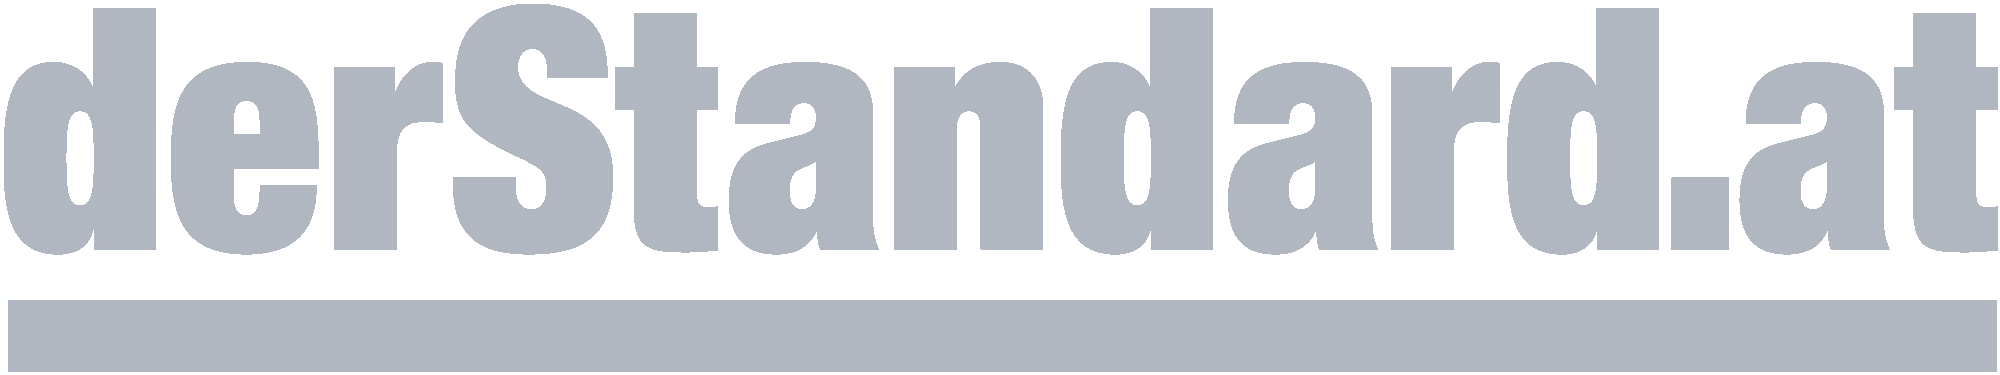
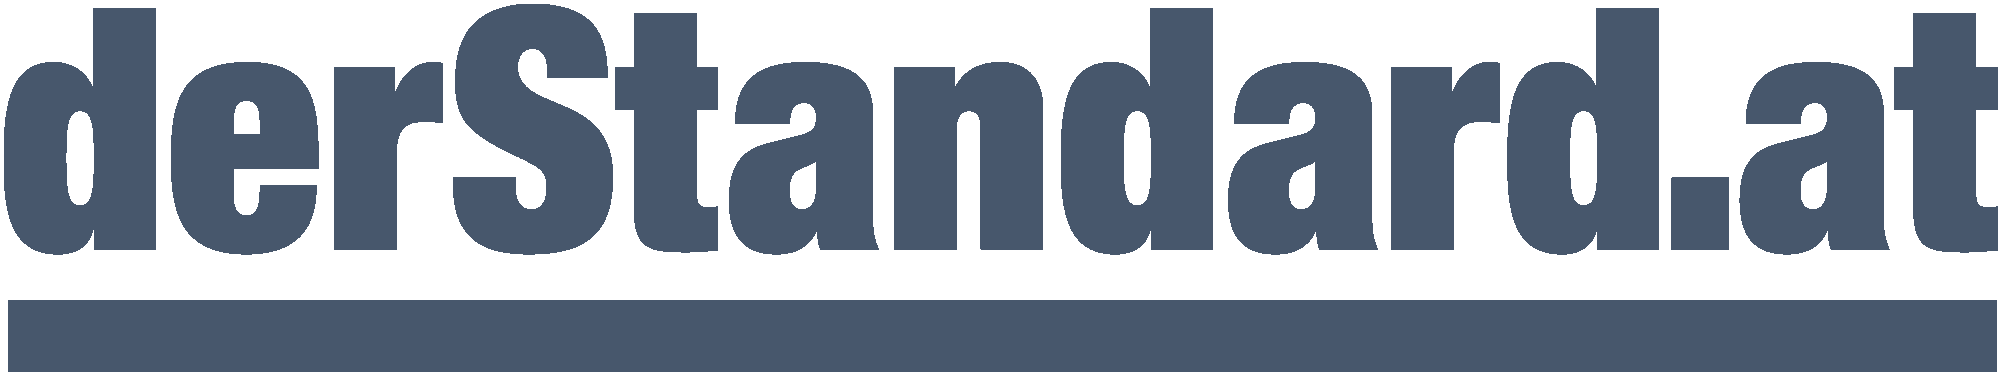
Ajusted links for telegram and medium, ajusted colors for nature.com and derStandard.at.

diff --git a/src/index.html b/src/index.html
@@ -439,23 +439,24 @@
 
   <section class="whitepaper" id="whitepaper">
     <h1 class="title press" data-animate-subscribe>Press</h1>
-    <a href="https://www.nature.com/articles/d41586-017-08589-4?utm_source=FBK_NatureNews&sf176682185=1" target="_blank"><img src="assets/images/nature.com.svg" class="space-right-50" /> </a>
-    <a href="http://mobil.derstandard.at/2000069965446/Peer-to-Peer-Wissenschaftsverlage-funktionieren-nicht-oder-doch" target="_blank"><img src="assets/images/derStandard.png" width="250" height="40" class="space-left-50" /></a>
-    <h1 class="title latest-news" data-animate-subscribe>Latest news</h1>    
-    <br />
     
-    <div class="grid">
-      <div class="grid__cell">
-        <a class="twitter-timeline" data-width="300" data-height="500" data-theme="dark" href="https://twitter.com/scienceroot?ref_src=twsrc%5Etfw">Tweets by scienceroot</a> <script async src="https://platform.twitter.com/widgets.js" charset="utf-8"></script>
+    <div class="team__members">
+      <div class="team__member" data-animate-subscribe>
+        <a href="https://www.nature.com/articles/d41586-017-08589-4?utm_source=FBK_NatureNews&sf176682185=1" class="grid__cell" target="_blank"><img src="assets/images/nature.com.svg" /> </a>
       </div>
-      <div class="grid__cell space-left-120">
-        <a href="https://t.me/scienceroot" target="_blank" class="follow-text">Join us on Telegram<br /><span class="follow-link">https://t.me/scienceroot</span></a>
-        <br /><br /><br /><br /><br /><br />
-        <a href="https://medium.com/scienceroot" target="_blank" class="follow-text">Follow us on Medium<br /><span class="follow-link">https://medium.com/scienceroot</span></a>
+      <div class="team__member" data-animate-subscribe>
+        <a href="http://mobil.derstandard.at/2000069965446/Peer-to-Peer-Wissenschaftsverlage-funktionieren-nicht-oder-doch" target="_blank" class="grid__cell"><img src="assets/images/derStandard.png" width="250" height="40" /></a>
       </div>
     </div>
-       
-
+    
+    <h1 class="title latest-news" data-animate-subscribe>Latest news</h1>    
+    
+    <br />
+    <a class="twitter-timeline" data-width="300" data-height="500" data-theme="dark" href="https://twitter.com/scienceroot?ref_src=twsrc%5Etfw">Tweets by scienceroot</a> <script async src="https://platform.twitter.com/widgets.js" charset="utf-8"></script>
+    <br /><br /><br /><br /><br /><br />
+    <a href="https://t.me/scienceroot" target="_blank" class="follow-text">Join us on Telegram<br /><span class="follow-link">t.me/scienceroot</span></a>
+    <br /><br /><br /><br /><br /><br />
+    <a href="https://medium.com/scienceroot" target="_blank" class="follow-text">Follow us on Medium<br /><span class="follow-link">medium.com/scienceroot</span></a>
   </section>
 
   <footer class="footer">
